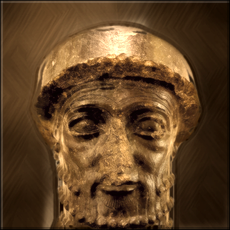
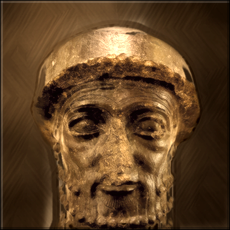
Keep Wang Kon's portrait whole and darken its surround
No cut-out and no separate face grade: the whole eojin is darkened and
calmed, its white under-collar toned down, and the silk round him
darkened into the key, as for the Celt, whose surround is darker now.
Japan, Babylon and Sumeria get a wider edge step for their halos.

diff --git a/ArtGen/leaderheads/build.py b/ArtGen/leaderheads/build.py
@@ -153,12 +153,12 @@ PAINT = {
                        (0.29, 0.5)]]},
     # statues before a light wall: the sitter's outline pulled in further,
     # so no light rim of the wall glows round the head
-    'Babylon': {'erode': 15, 'plain': 1.0, 'edge': 5, 'shrink': 1},
+    'Babylon': {'erode': 15, 'plain': 1.0, 'edge': 7, 'shrink': 2},
     'Hittites': {'erode': 8, 'hand_only': True, 'level': 0.36, 'local': 1.5, 'feather': 4, 'edge': 7, 'shrink': 4, 'bg': 1.0,
                  'hand': [[(0.24, 0.42), (0.3, 0.25), (0.42, 0.06), (0.5, 0.0), (0.58, 0.04), (0.72, 0.25), (0.8, 0.45),
                            (0.86, 0.6), (0.82, 0.68), (0.8, 0.8), (0.75, 0.9), (0.72, 1), (0.3, 1), (0.26, 0.85),
                            (0.24, 0.7), (0.22, 0.55)]]},
-    'Sumeria': {'erode': 15, 'edge': 3},
+    'Sumeria': {'erode': 15, 'edge': 6, 'shrink': 2},
     'Greece': {'hand_only': True,
                'hand': [[(0.16, 0.3), (0.19, 0.15), (0.3, 0.09), (0.55, 0.08), (0.75, 0.13), (0.85, 0.22), (0.89, 0.5),
                          (0.86, 1), (0.22, 1), (0.16, 0.65)]]},
@@ -171,11 +171,9 @@ PAINT = {
     # a pale face on pale silk the mask can't tell apart
     # a pale face on pale silk: the whole picture darkened first, and an
     # outline for the hat, face and shoulders, which the mask can't find
-    'Korea': {'keep': 1.0, 'color': 0.6, 'level': 0, 'hand_only': True, 'local': 2.0, 'gamma': 1.3, 'feather': 5,
-              'edge': 5, 'shrink': 2, 'bg': 1.0,
-              'hand': [[(0.36, 0.03), (0.66, 0.03), (0.72, 0.3), (0.73, 0.45), (0.74, 0.55), (0.72, 0.65), (0.68, 0.74),
-                        (1, 0.78), (1, 1), (0, 1), (0, 0.78), (0.33, 0.74), (0.29, 0.65), (0.27, 0.55), (0.28, 0.45),
-                        (0.3, 0.3)]]},
+    'Korea': {'bg': 0.0, 'surround': 1.0, 'wallgrade': 0.0, 'around': (0.51, 0.42, 0.2, 0.36), 'deep': 0.8,
+              'gamma': 1.6, 'color': 0.6, 'local': 2.0, 'keep': 0.9, 'level': 0.30, 'collar': (0.66, 0.84),
+              'post': 0.75},
     # photographs: more of the real picture kept on the face, so the
     # strokes don't break skin into patches
     'America': {'keep': 0.55, 'erode': 30, 'feather': 3},
@@ -184,10 +182,11 @@ PAINT = {
     'Mongols': {'color': 0.35, 'level': 0.30, 'keep': 0.8, 'feather': 3, 'edge': 5, 'shrink': 3, 'bg': 1.0,
                 'hand': [[(0.22, 0.6), (0.24, 0.25), (0.33, 0.1), (0.5, 0.05), (0.67, 0.1), (0.78, 0.25), (0.84, 0.6),
                           (1, 0.7), (1, 1), (0, 1), (0, 0.7)]]},
-    'Japan': {'edge': 3, 'feather': 5, 'texture': 0.3, 'hand': [[(0.36, 0.45), (0.4, 0.3), (0.5, 0.2), (0.62, 0.18), (0.7, 0.25), (0.76, 0.35), (0.8, 0.5),
+    'Japan': {'edge': 6, 'shrink': 2, 'feather': 5, 'texture': 0.3, 'broad': 140,
+              'hand': [[(0.36, 0.45), (0.4, 0.3), (0.5, 0.2), (0.62, 0.18), (0.7, 0.25), (0.76, 0.35), (0.8, 0.5),
                         (0.82, 0.55), (1, 0.52), (1, 1), (0, 1), (0, 0.75), (0.3, 0.68), (0.36, 0.6)]]},
     # a painting kept whole, its own background darkened into the key
-    'Celts': {'bg': 0.0, 'surround': 1.0, 'texture': 0.5, 'level': 0.34},
+    'Celts': {'bg': 0.0, 'surround': 1.0, 'deep': 0.9, 'texture': 0.5, 'level': 0.34, 'local': 1.4, 'post': 0.5},
     'Byzantines': {'keep': 0.75, 'broad': 150},
     'Aztecs': {'broad': 140,
                'hand': [[(0.38, 0.25), (0.42, 0.1), (0.5, 0.05), (0.62, 0.02), (0.75, 0.02), (0.8, 0.1), (0.78, 0.3),
@@ -205,7 +204,7 @@ TARGET_LEVEL = 0.42
 # Faces much paler than the set's (Wang Kon's stand-in, a pale painted face
 # on silk): (cx, cy, rx, ry, brightness) of an ellipse brought to about the
 # set's typical face brightness.
-FACE = {'Korea': (0.51, 0.58, 0.22, 0.19, 0.52)}
+FACE = {}
 
 
 # ---------------------------------------------------------------- Commons
@@ -430,13 +429,33 @@ def make(civ_name, painted=False):
     sharpen = extra.get('sharpen', 45 if upscale < 0.8 else 25)
     if painted:
         import paint
-        a = paint.paint(im, seed=sum(map(ord, civ_name)), **{'level': TARGET_LEVEL, **PAINT.get(civ_name, {})})
+        a = paint.paint(im, seed=sum(map(ord, civ_name)),
+                        **{'level': TARGET_LEVEL, **{k: v for k, v in PAINT.get(civ_name, {}).items() if k != 'post'}})
         im = Image.fromarray((a * 255 + 0.5).astype(np.uint8), 'RGB').resize((SIZE, SIZE), Image.LANCZOS)
         sharpen = 0   # (sharpening brightens the ground's edge into rims)
     out = finish(im, sharpen=sharpen, level=not painted)
+    if painted and PAINT.get(civ_name, {}).get('surround'):
+        # (the levels in finish lift a darkened surround again: darkened once
+        # more after them, toward the set's dark umber)
+        ps = PAINT[civ_name]
+        out = _surround_post(out, ps.get('around', (0.5, 0.62, 0.22, 0.28)), ps.get('post', 0.6))
     if painted and civ_name in FACE:
         out = _face_level(out, *FACE[civ_name])
     return out, info
+
+
+def _surround_post(im, around, amount):
+    """Everything outside a soft oval (cx, cy, rx, ry in fractions of the
+    tile) multiplied darker by up to amount, and warmed toward umber."""
+    a = np.asarray(im, np.float32) / 255
+    n = a.shape[0]
+    cx, cy, rx, ry = around
+    y, x = np.mgrid[0:n, 0:n].astype(np.float32) / n
+    ov = np.exp(-(((x - cx) / rx) ** 2 + ((y - cy) / ry) ** 2))[..., None]
+    k = amount * (1 - ov)
+    umber = _luma(a)[..., None] * np.array([0.62, 0.48, 0.34], np.float32)
+    a = a * (1 - k) + umber * k * 0.55
+    return Image.fromarray((np.clip(a, 0, 1) * 255 + 0.5).astype(np.uint8), 'RGB')
 
 
 def _face_level(im, cx, cy, rx, ry, target):

diff --git a/ArtGen/leaderheads/paint.py b/ArtGen/leaderheads/paint.py
@@ -167,7 +167,8 @@ def backdrop(n, seed):
 
 def paint(img, seed=0, strength=1.0, oval=1.0, keep=0.4, broad=70, bg=0.92, color=0.75, erode=60, level=0.42,
           fixed=None, plain=None, contrast=1.0, texture=1.0, green=None, hand=None, soften=0,
-          hand_only=False, local=0, feather=0, edge=0, shrink=0, gamma=1.0, surround=0.0):
+          hand_only=False, local=0, feather=0, edge=0, shrink=0, gamma=1.0, surround=0.0,
+          around=(0.5, 0.62, 0.22, 0.28), deep=0.75, collar=None, wallgrade=0.95):
     """The painted finish on a PIL RGB picture (returns float RGB 0..1).
     Per picture: oval, how sure the center is the sitter (lower for a
     sitter before a bright wall, which would glow); keep, how much of the
@@ -182,6 +183,16 @@ def paint(img, seed=0, strength=1.0, oval=1.0, keep=0.4, broad=70, bg=0.92, colo
     if gamma != 1.0:
         # the whole source darkened (or lightened) before anything else
         a = a ** gamma
+    if collar:
+        # a pale bluish band (a white under-collar) between rows y0..y1
+        # (fractions of the tile) darkened and warmed to the robe around it
+        y0, y1 = (int(v * n) for v in collar)
+        seg = a[y0:y1]
+        lz = _luma(seg)
+        sel = np.clip((lz - 0.35) / 0.15, 0, 1) * np.clip((seg[..., 2] - seg[..., 0] + 0.05) / 0.1, 0, 1)
+        sel = nd.gaussian_filter(sel, 2)[..., None]
+        a = a.copy()
+        a[y0:y1] = seg * (1 - sel) + (seg * 0.35) * sel
     if contrast != 1.0:
         a = np.clip((a - a.mean()) * contrast + a.mean(), 0, 1)
     mask, wall = subject_mask(a, oval, erode, plain)
@@ -307,11 +318,15 @@ def paint(img, seed=0, strength=1.0, oval=1.0, keep=0.4, broad=70, bg=0.92, colo
         # (a painting kept whole, its own background: everything outside a
         # soft oval round the sitter darkened and calmed into the umber key)
         yy, xx = np.mgrid[0:n, 0:n].astype(np.float32)
-        ov = np.exp(-(((xx - n * 0.5) / (n * 0.22)) ** 2 + ((yy - n * 0.62) / (n * 0.28)) ** 2))[..., None]
+        acx, acy, arx, ary = around
+        ov = np.exp(-(((xx - n * acx) / (n * arx)) ** 2 + ((yy - n * acy) / (n * ary)) ** 2))[..., None]
         lq = _luma(np.clip(p, 0, 1))[..., None]
         calm = lq * 0.6 + p * 0.4
-        dark = calm * 0.25 + bd * 0.75
-        k = surround * (1 - ov)
+        dark = calm * (1 - deep) + bd * deep
+        # (and the old wall even close to the sitter, where it matches the
+        # border: darkened in proportion, so no cut edge and no light rim)
+        wsoft = np.clip(nd.gaussian_filter(wall, n / 160), 0, 1)[..., None]
+        k = surround * np.maximum(1 - ov, wsoft * wallgrade)
         p = p * (1 - k) + dark * k
     # brush texture: faint strokes along the forms on the subject, a
     # crisscrossed brushed ground behind
